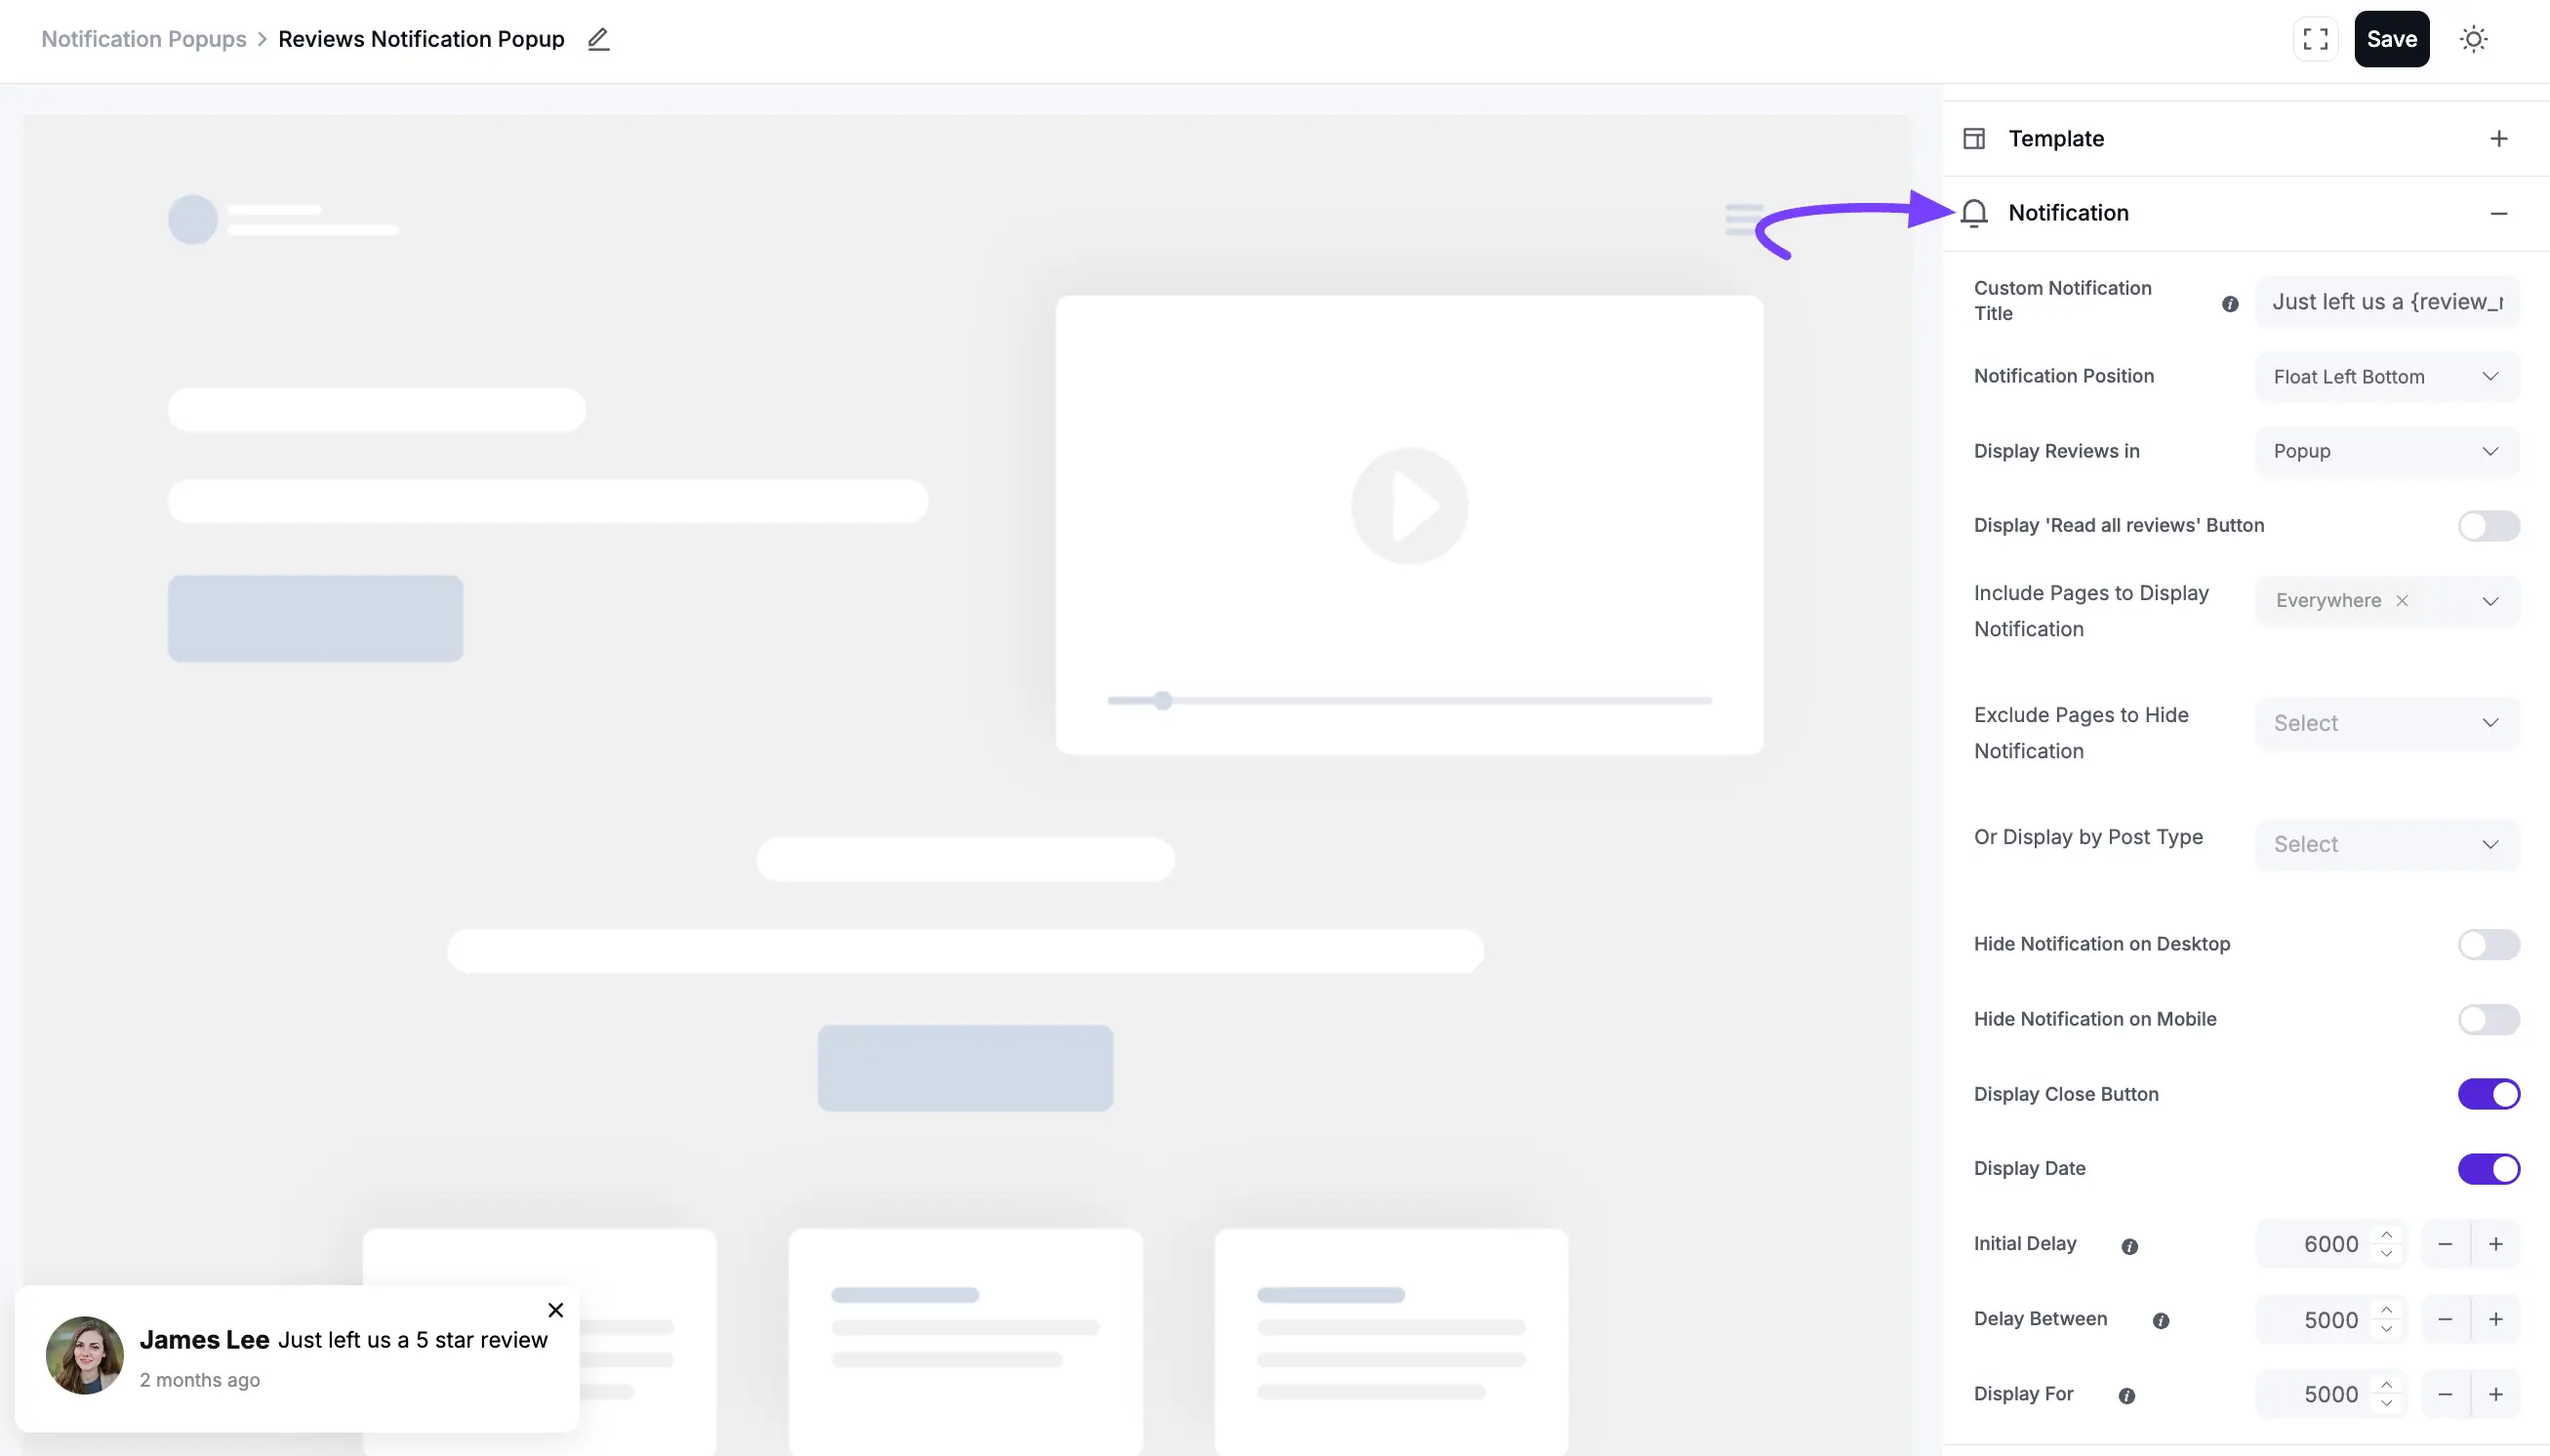
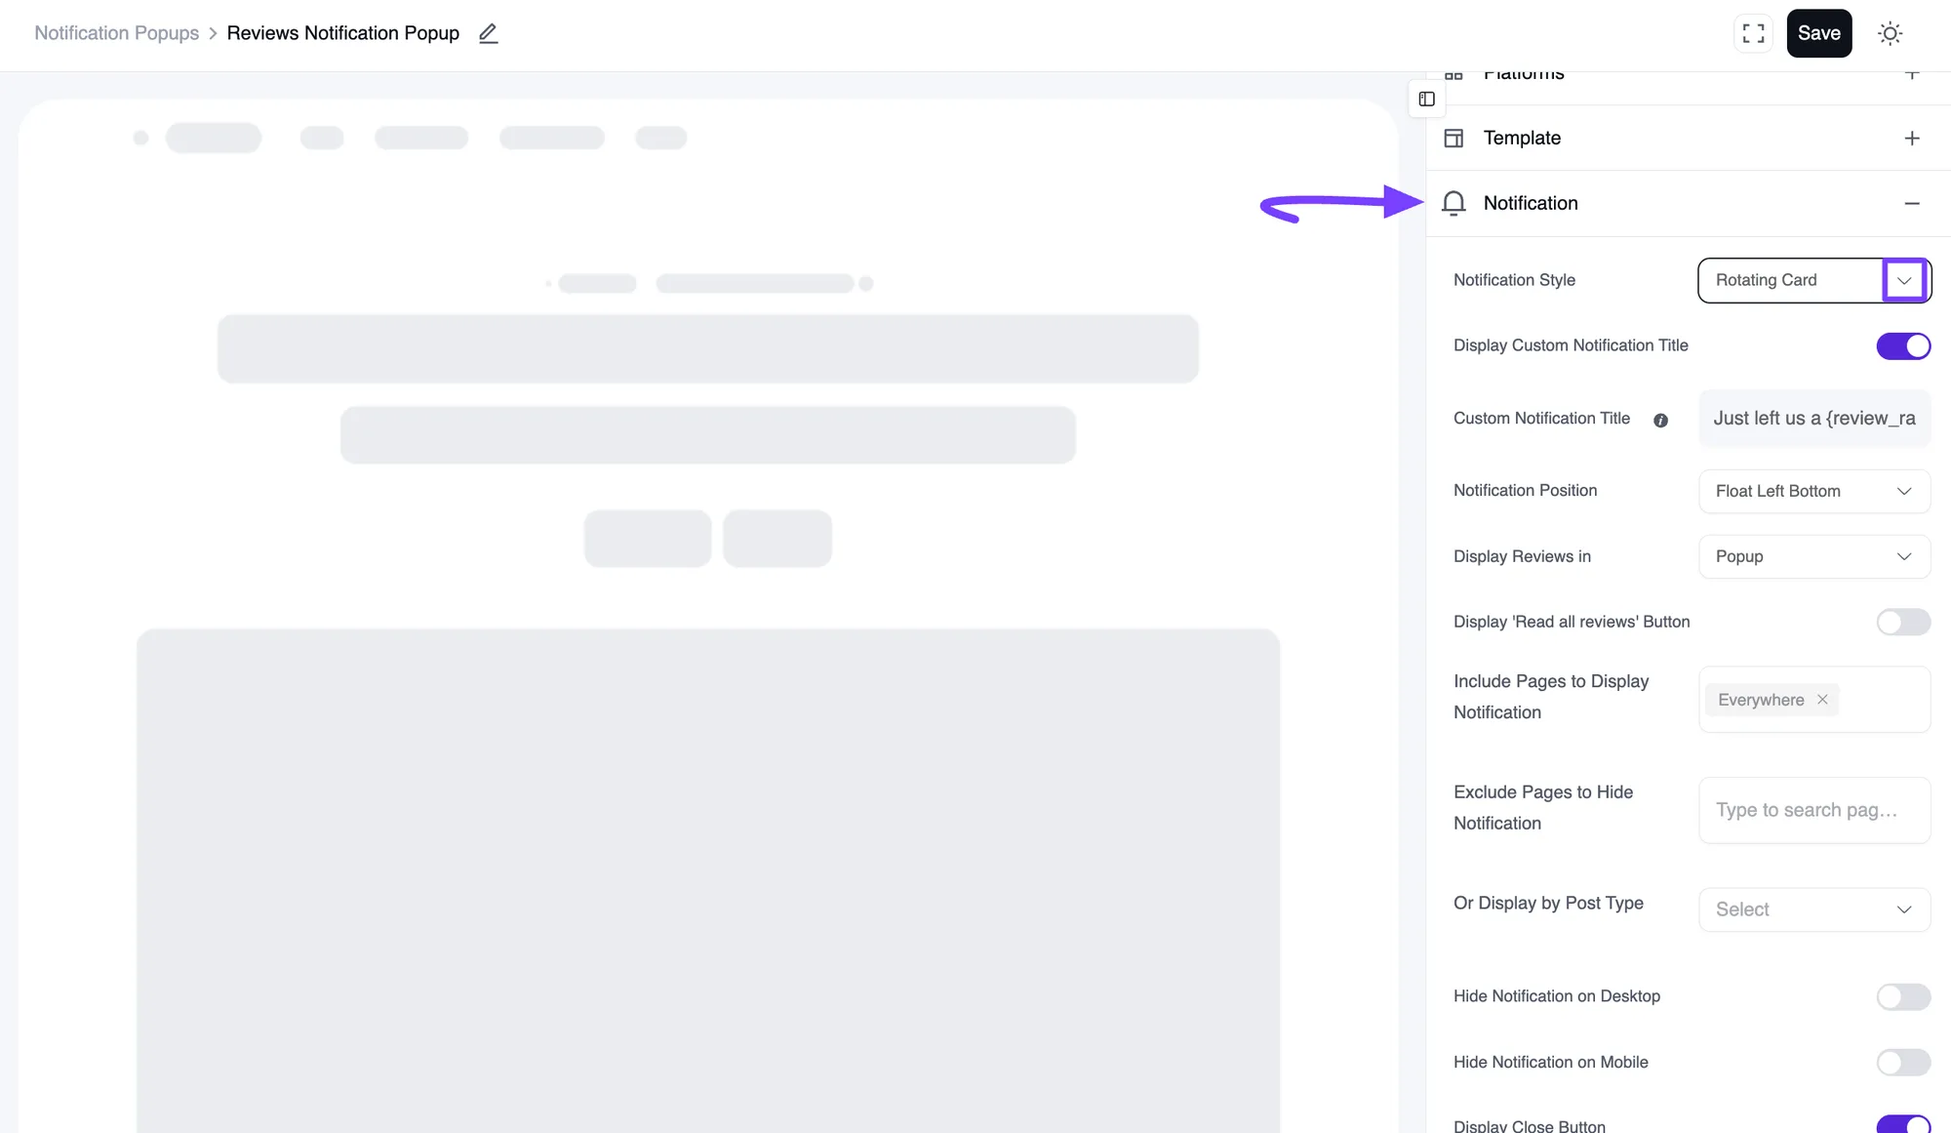
add description and update Notification Popup doc

diff --git a/docs/advanced-features/notification-popup.md b/docs/advanced-features/notification-popup.md
@@ -34,10 +34,12 @@ The **General** tab is where you select which reviews to display and set the **b
 
 This is the most important section for controlling how, where, and when your pop-ups appear. Click on the **Notification** tab to see all the options.
 
-![Custom Notification Title](/docs/public/images/advanced-features/notification-popup/notification-4.webp)
-
 Here’s what each setting does:
 
+ * **Notification Style:** Choose how the pop-up behaves.
+    * **Rotating Card:** Shows your reviews one by one.
+    * **Review Spotlight:** *(Pro)* Shows a review excerpt, with buttons so visitors can move to the next or previous review. Use **Source Display** to choose how the review source appears, such as **Logo only** or **Logo + platform name**.
+    * **Rating Pulse:** *(Pro)* Shows your overall score instead of rotating through reviews. When it combines ratings from several sources, it also shows small platform logos.
  * **Custom Notification Title:** Change the default text. For example, you can write "Just left us a 5-star review!" to add a personal touch.
  * **Notification Position:** Choose which corner of the screen the pop-up will appear in (e.g., "Float Left Bottom" or "Float Right Bottom").
  * **Display Reviews in:** Select what happens when a visitor clicks the pop-up. The **Popup** option will open a larger lightbox showing a feed of all your reviews.
@@ -51,5 +53,12 @@ Here’s what each setting does:
  * **Initial Delay:** This is the time (in milliseconds) to wait before the first pop-up appears after a visitor loads your page. (e.g., 6000ms = 6 seconds).
  * **Delay Between:** This is the time (in milliseconds) to wait between each notification. (e.g., 5000ms = 5 seconds).
 Display For: This sets how long (in milliseconds) a single pop-up will stay on the screen before hiding. (e.g., 6000ms = 6 seconds).
+
+
+::: tip
+Pop-ups also look after your visitors automatically. They pause in hidden browser tabs, remember when a visitor closes them, respect reduced-motion settings, and work fully with the keyboard.
+:::
+
+![Custom Notification Title](/docs/public/images/advanced-features/notification-popup/notification-4.webp)
 
 When you're all done, don't forget to click the **Save** button! You can also use the **Filters, Header, and Style** tabs to refine further which reviews are shown and how they look, just like a standard feed template.
